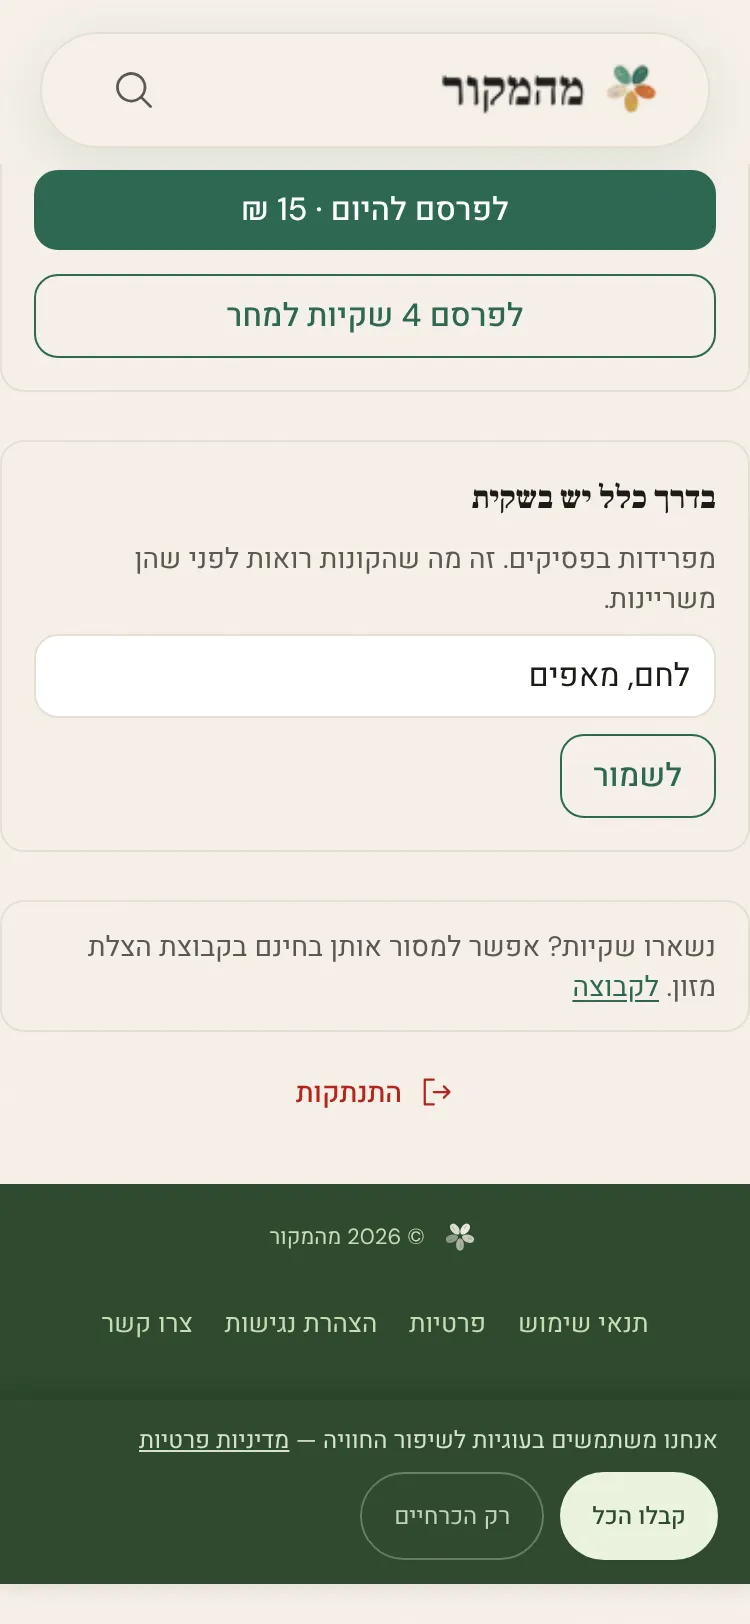
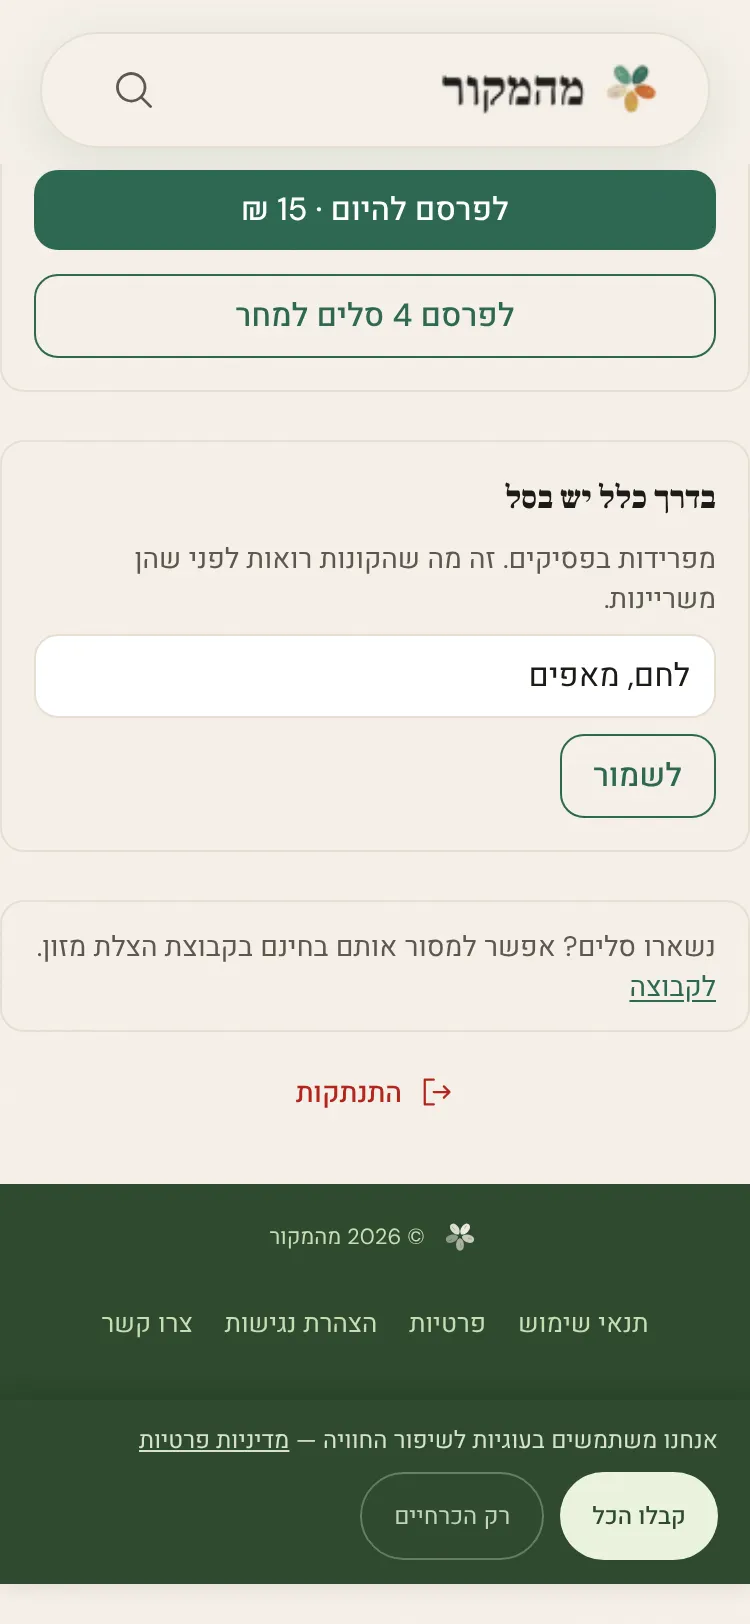
chore(rescue): retake MEH-2702 shots on the «סל» copy; tidy indent and test-plan wording
Screenshots retaken after #4020 merged (375/1440 read: «נשארו סלים?…
לקבוצה»). MANUAL_TESTING names the tab «סלי הפתעה». JSX indent of the
gated block only — no behaviour change.

Builder-Model: claude-opus-5-5
Claude-Session: https://claude.ai/code/session_01X8DSqXXF8va7a3qAfgyvAG

diff --git a/frontend/components/dashboard/RescueTab.jsx b/frontend/components/dashboard/RescueTab.jsx
@@ -332,18 +332,18 @@ export default function RescueTab() {
 
       {/* No exact point → no bags can be published, so nothing can be left over. */}
       {exactLocation && (
-      <p className="border border-border rounded-md px-4 py-3 font-body-sm text-sm text-fg-muted" data-testid="rescue-leftover-hint">
-        {t("leftover_hint")}{" "}
-        <a
-          href={leftoverHref}
-          target="_blank"
-          rel="noopener noreferrer"
-          data-testid="rescue-leftover-link"
-          className="text-primary underline underline-offset-2"
-        >
-          {t("leftover_link")}
-        </a>
-      </p>
+        <p className="border border-border rounded-md px-4 py-3 font-body-sm text-sm text-fg-muted" data-testid="rescue-leftover-hint">
+          {t("leftover_hint")}{" "}
+          <a
+            href={leftoverHref}
+            target="_blank"
+            rel="noopener noreferrer"
+            data-testid="rescue-leftover-link"
+            className="text-primary underline underline-offset-2"
+          >
+            {t("leftover_link")}
+          </a>
+        </p>
       )}
     </div>
   );

diff --git a/docs/MANUAL_TESTING.md b/docs/MANUAL_TESTING.md
@@ -3,8 +3,8 @@
 
 ---
 
-## MEH-2702 — סלי הצלה: «נשארו סלים?» בכלי הדלפק (05/11/2026)
-- [ ] דשבורד העסק → לשונית שקיות הצלה, גלילה לתחתית — **תוצאה מצופה:** «נשארו סלים? אפשר למסור אותם בחינם בקבוצת הצלת מזון. לקבוצה», בתוך מסגרת
+## MEH-2702 — סלי הפתעה: «נשארו סלים?» בכלי הדלפק (05/11/2026)
+- [ ] דשבורד העסק → לשונית «סלי הפתעה», גלילה לתחתית — **תוצאה מצופה:** «נשארו סלים? אפשר למסור אותם בחינם בקבוצת הצלת מזון. לקבוצה», בתוך מסגרת
 - [ ] לחיצה על «לקבוצה» — **תוצאה מצופה:** קבוצת הפייסבוק «אוכל חינם» נפתחת בלשונית חדשה (אין עדיין קבוצה מקומית לאף עיר)
 ## MEH-2698 — שם חדש: «סלי הפתעה» (05/11/2026)
 - [ ] /rescue — **תוצאה מצופה:** כותרת «סלי הפתעה»; אין «הצלה» או «שקית» בדף
